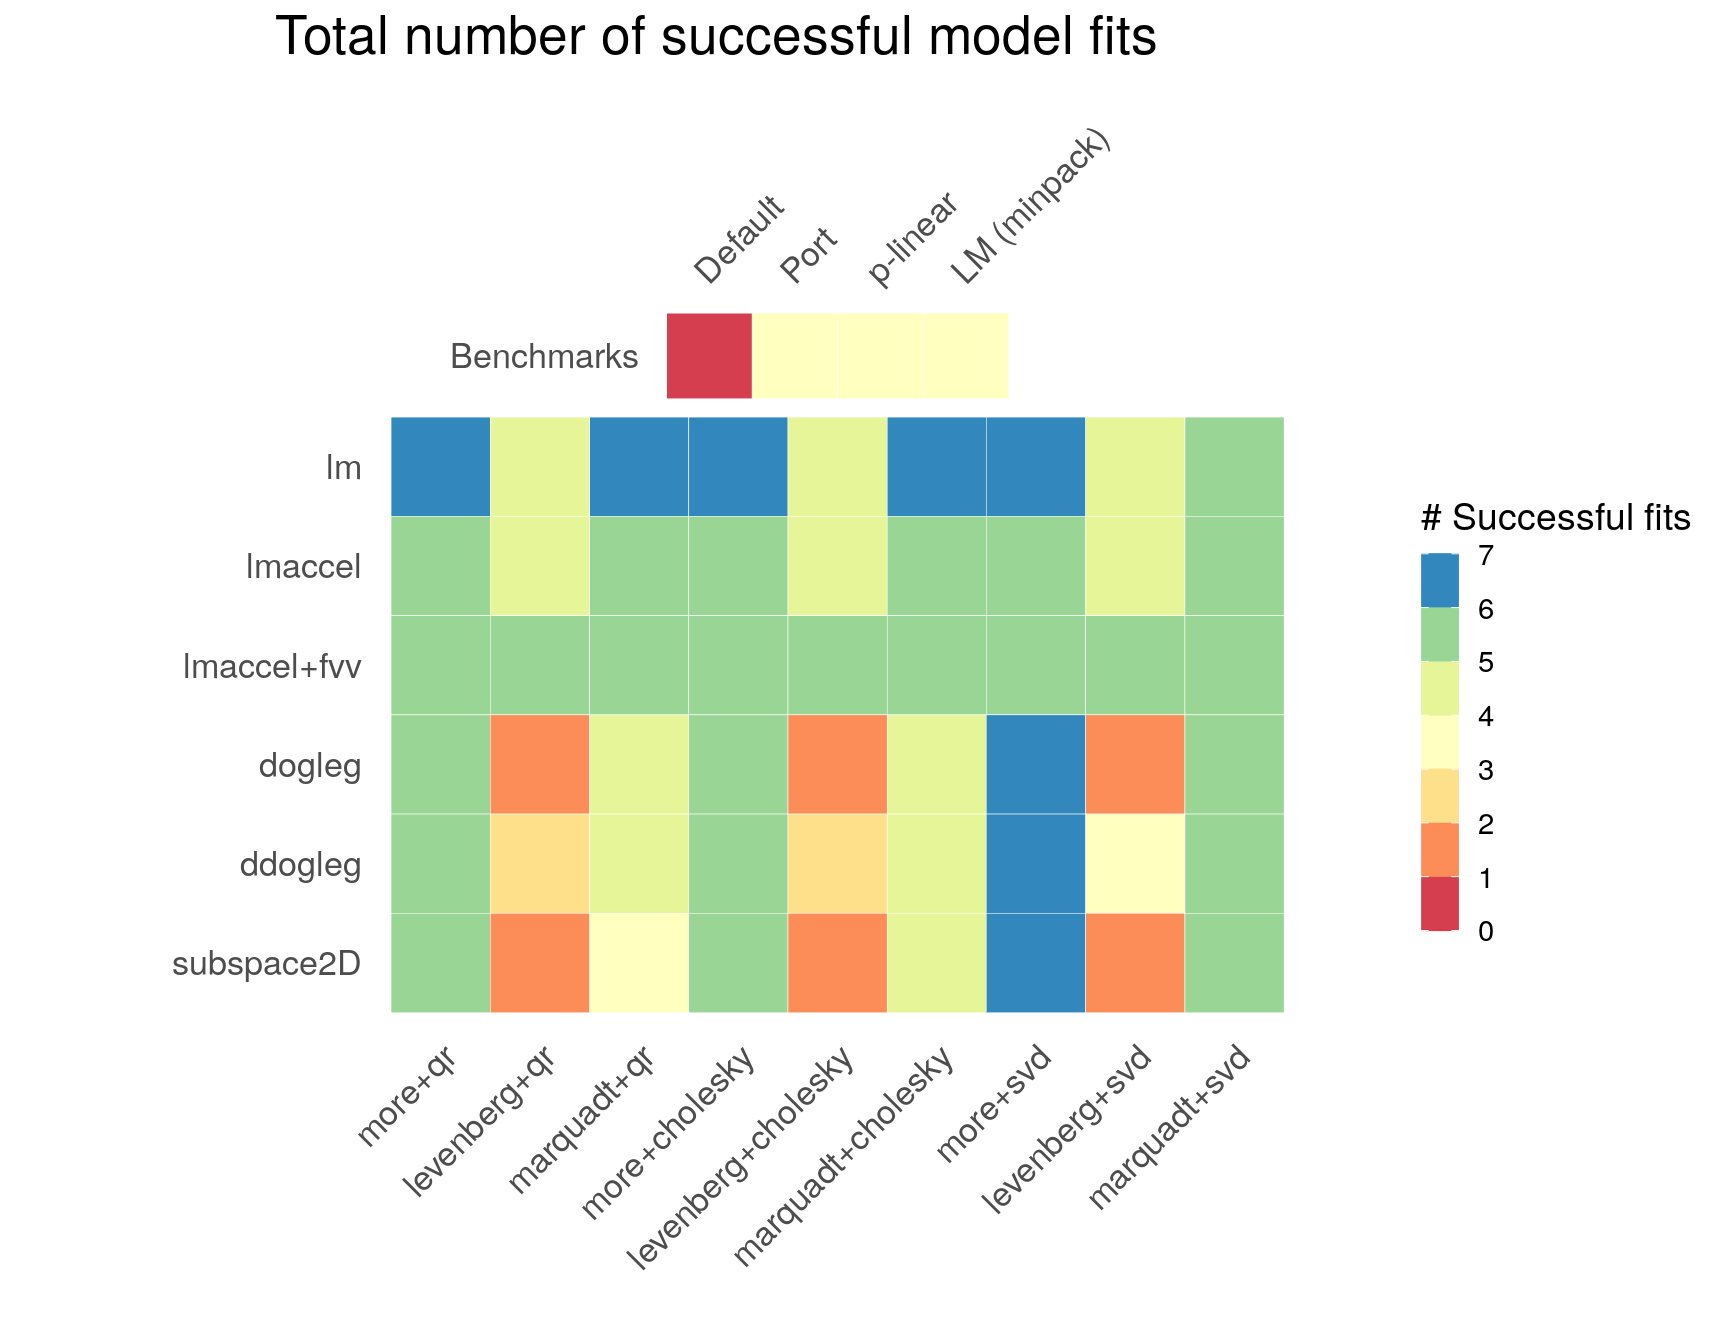
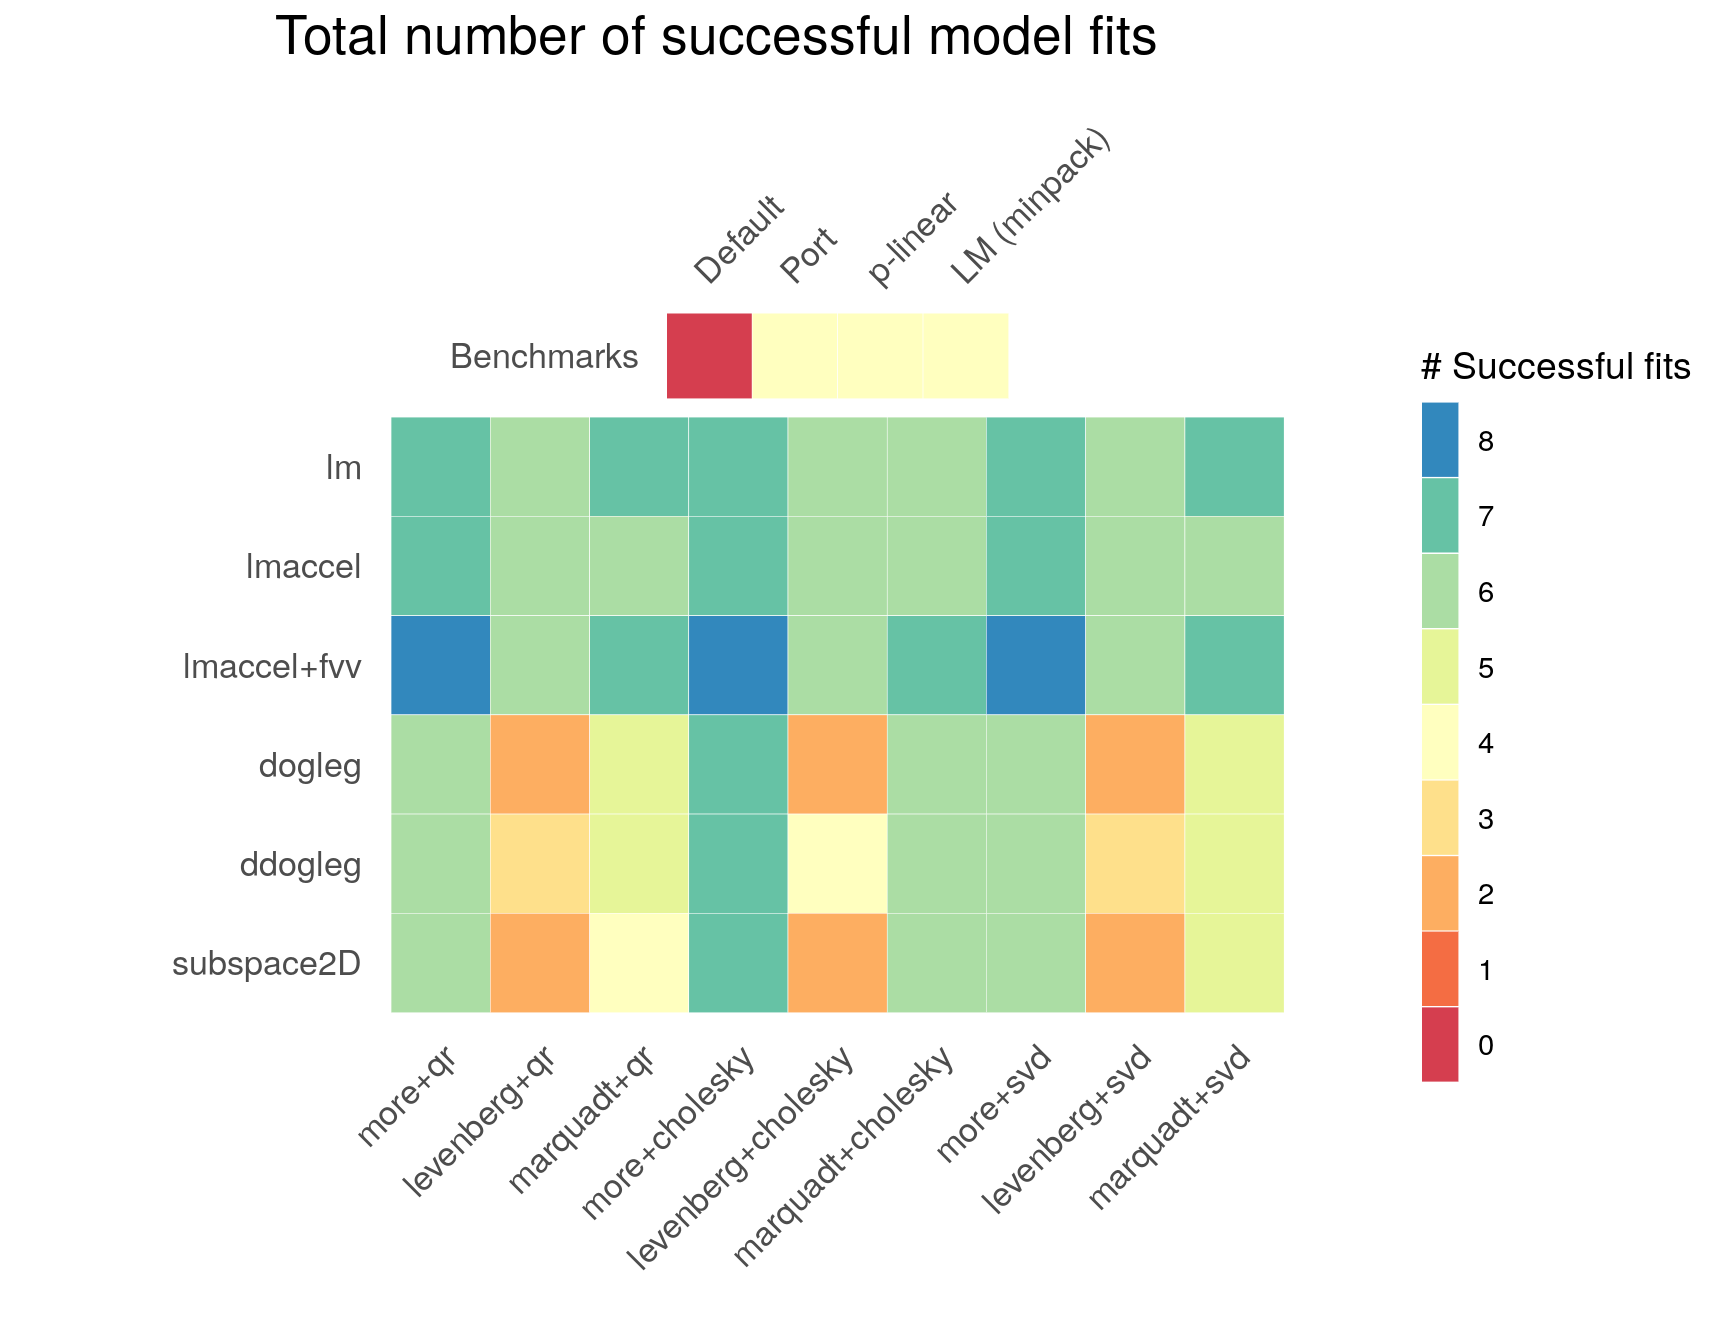
Edit post

diff --git a/content/post/2021-10-12-gsl-nonlinear-least-squares-fitting-in-r/index.html b/content/post/2021-10-12-gsl-nonlinear-least-squares-fitting-in-r/index.html
@@ -304,11 +304,11 @@ Observed
 <li><code>"ddogleg"</code>, <a href="https://www.gnu.org/software/gsl/doc/html/nls.html#double-dogleg">Double dogleg algorithm</a></li>
 <li><code>"subspace2D"</code>, <a href="https://www.gnu.org/software/gsl/doc/html/nls.html#two-dimensional-subspace">2D subspace dogleg generalization</a>.</li>
 </ul>
-<p>By default, if the <code>jac</code> argument in the <code>gsl_nls()</code> function is left unspecified, the Jacobian matrix is approximated by (forward) finite differences. Analogously, when geodesic acceleration is used and the <code>fvv</code> argument is left unspecified, the second directional derivatives are approximated by (forward) finite differences. In testing the convergence of the GSL routines, the <code>jac</code> argument is always left unspecified. The Levenberg-Marquadt algorithm with geodesic acceleration is evaluated both with the <code>fvv</code> argument unspecified (denoted by <code>lmaccel</code>) <em>and</em> with <code>fvv = TRUE</code> in which case the second directional derivatives are calculated using symbolic differentiation (denoted by <code>lmaccel+fvv</code>).</p>
+<p>By default, if the <code>jac</code> argument in the <code>gsl_nls()</code> function is left unspecified, the Jacobian matrix is approximated by (forward) finite differences. Analogously, when geodesic acceleration is used and the <code>fvv</code> argument is left unspecified, the second directional derivatives are approximated by (forward) finite differences. In testing the convergence of the GSL routines, the <code>jac</code> argument is always left unspecified. The Levenberg-Marquadt algorithm with geodesic acceleration is evaluated both with the <code>fvv</code> argument unspecified (denoted by <code>lmaccel</code>) <em>and</em> with <code>fvv = TRUE</code> in which case the second directional derivatives are calculated using algorithmic differentiation (denoted by <code>lmaccel+fvv</code>). To further improve the stability of the <code>lmaccel+fvv</code> method, the acceleration/velocity rejection ratio <code>avmax</code> (see <code>?gsl_nls_control</code>) is decreased from its default value 0.75 to 0.5, which was found to perform well for the evaluated test problems. For the standard <code>lmaccel</code> method (without algorithmic derivation of <code>fvv</code>), the <code>avmax</code> control parameter is kept at its default value 0.75.</p>
 </div>
 <div id="scaling-method" class="section level3">
 <h3>Scaling method</h3>
-<p>For the control parameters set with <code>gsl_nls_control()</code>, only the <code>scale</code> and <code>solver</code> parameters are varied, see also <code>?gsl_nls_control</code>. The maximum number of iterations <code>maxiter</code> is increased from the default <code>maxiter = 50</code> to <code>maxiter = 1e4</code> in order to remove the maximum number of iterations as a constraining factor, and the default values are used for all other control parameters available in <code>gsl_nls_control()</code>.</p>
+<p>For the control parameters set with <code>gsl_nls_control()</code>, only the <code>scale</code> and <code>solver</code> parameters are varied, see also <code>?gsl_nls_control</code>. The maximum number of iterations <code>maxiter</code> is increased from the default <code>maxiter = 50</code> to <code>maxiter = 1e4</code> in order to remove the maximum number of iterations as a constraining factor, and the default values are used for the remaining control parameters available in <code>gsl_nls_control()</code>.</p>
 <p>The <code>scale</code> control parameter can take the following values<a href="#fn2" class="footnote-ref" id="fnref2"><sup>2</sup></a>:</p>
 <ul>
 <li><code>"more"</code>, Moré rescaling. This method makes the problem scale-invariant and has been proven effective on a large class of problems.</li>
@@ -552,8 +552,8 @@ nls(
 </ul>
 <p><img src="{{< blogdown/postref >}}index_files/figure-html/unnamed-chunk-13-1.png" width="100%" /></p>
 <p>Based on the displayed results, an initial observation is that the default Gauss-Newton algorithm in <code>nls()</code> fails to produce <em>any</em> successful model fit and returns an error for each selected test problem. The Port and (<code>minpack.lm</code>) Levenberg-Marquadt algorithms show roughly similar convergence results, but only successfully converge for half of the evaluated test problems. The p-linear algorithm is somewhat special as it is only applicable for regression models that can be factored into a partially linear model. However, if applicable, the p-linear algorithm can be a powerful alternative as demonstrated by the <code>BoxBOD</code> problem, where most other (general) NLS routines fail to converge. More precisely, the <code>BoxBOD</code> regression model contains only two parameters, and by factoring out the linear parameter, the nonlinear model fit that needs to be optimized by the p-linear algorithm depends only on a single unknown parameter.</p>
-<p>Regarding the GSL routines, for each test problem there exists <em>at least</em> one algorithm configuration that is able to produce a successful model fit. Across test problems and control parameter configurations, the GSL Levenberg-Marquadt algorithms with and without geodesic acceleration (<code>lm</code>, <code>lmaccel</code>, <code>lmaccel+fvv</code>) appear to be the most stable, as also seen in the figure below, which displays the total number of successful model fits across test problems. In comparison to the LM algorithm without geodesic acceleration (<code>lm</code>), the LM algorithm with geodesic acceleration (<code>lmaccel</code>, <code>lmaccel+fvv</code>) fails to converge in the <code>Rat43</code> problem, but on the other hand the <code>lmaccel+fvv</code> algorithm is the <em>only</em> GSL routine that is able to produce a successful fit in the <code>BoxBOD</code> problem.</p>
-<p>Across control parameter configurations, in terms of the scaling method, <code>more</code> rescaling (the default) exhibits the most stable performance, followed by <code>marqaudt</code> rescaling and <code>levenberg</code> rescaling. In the figure below, this is seen most prominently for the different variations of the Dogleg algorithm (<code>dogleg</code>, <code>ddogleg</code>, <code>subspace2D</code>) and somewhat less for the Levenberg-Marquadt algorithms. In terms of the chosen solver method, the <code>svd</code> solver produces slightly more robust results than the <code>qr</code> and <code>cholesky</code> solver methods, which is in line with the solver method section in the GSL documentation.</p>
+<p>Regarding the GSL routines, for each test problem there exist multiple least-squares algorithms producing a successful model fit. Across test problems and control parameter configurations, the GSL Levenberg-Marquadt algorithms with and without geodesic acceleration (<code>lm</code>, <code>lmaccel</code>, <code>lmaccel+fvv</code>) appear to be the most stable, as also seen in the figure below, which displays the total number of successful model fits across test problems. In comparison to the LM algorithm without geodesic acceleration (<code>lm</code>), the LM algorithm with geodesic acceleration (<code>lmaccel</code>) does not converge for all solver and scaling methods in the <code>Rat43</code> problem. On the other hand, the LM algorithm with geodesic acceleration is more stable in the <code>BoxBOD</code> problem, where the standard LM algorithm suffers from <em>parameter evaporation</em>. The <code>lmaccel+fvv</code> algorithm shows similar performance to the <code>lmaccel</code> algorithm, and successfully converges across all solver and scaling methods in the <code>Rat43</code> problem due to the more conservative <code>avmax</code> tuning parameter. In particular, the <code>lmaccel+fvv</code> algorithm with <code>more</code> rescaling is the only routine that converges successfully for <em>all</em> test problems.</p>
+<p>Across control parameter configurations, in terms of the scaling method, <code>more</code> rescaling (the default) exhibits the most stable performance, followed by <code>marqaudt</code> rescaling and <code>levenberg</code> rescaling. In the figure below, this is seen most prominently for the different variations of the Dogleg algorithm (<code>dogleg</code>, <code>ddogleg</code>, <code>subspace2D</code>) and somewhat less for the Levenberg-Marquadt algorithms. The chosen solver method seems to be less impactful for the evaluated test problems, with the <code>cholesky</code> solver method producing slightly more robust results than the <code>qr</code> and <code>svd</code> solver methods respectively.</p>
 <p><img src="{{< blogdown/postref >}}index_files/figure-html/unnamed-chunk-14-1.png" width="100%" /></p>
 </div>
 <div id="iterations-to-convergence" class="section level2">
@@ -565,6 +565,48 @@ nls(
 <div id="conclusion" class="section level1">
 <h1>Conclusion</h1>
 <p>Based on a small collection of NIST StRD test problems, this post benchmarks the convergence properties of a number of GSL nonlinear least squares routines as well as several standard NLS algorithms that are in common use. For the tested nonlinear regression problems, the GSL algorithms show at least comparable –<em>and often better</em>– optimization performance than the included benchmark algorithms, using mostly standard choices and default values for the GSL trust region method control parameters. As such, the GSL trust region methods provide a useful supplement to the existing suite of nonlinear least squares fitting algorithms available in R, in particular when adequate starting values are difficult to come by and more stable optimization routines (than provided by R’s standard methods) are required.</p>
+</div>
+<div id="session-info" class="section level1">
+<h1>Session Info</h1>
+<pre class="r"><code>sessionInfo()
+#&gt; R version 4.1.1 (2021-08-10)
+#&gt; Platform: x86_64-pc-linux-gnu (64-bit)
+#&gt; Running under: Ubuntu 18.04.6 LTS
+#&gt; 
+#&gt; Matrix products: default
+#&gt; BLAS:   /usr/lib/x86_64-linux-gnu/blas/libblas.so.3.7.1
+#&gt; LAPACK: /usr/lib/x86_64-linux-gnu/lapack/liblapack.so.3.7.1
+#&gt; 
+#&gt; locale:
+#&gt;  [1] LC_CTYPE=en_US.UTF-8       LC_NUMERIC=C              
+#&gt;  [3] LC_TIME=en_US.UTF-8        LC_COLLATE=en_US.UTF-8    
+#&gt;  [5] LC_MONETARY=en_US.UTF-8    LC_MESSAGES=en_US.UTF-8   
+#&gt;  [7] LC_PAPER=en_US.UTF-8       LC_NAME=C                 
+#&gt;  [9] LC_ADDRESS=C               LC_TELEPHONE=C            
+#&gt; [11] LC_MEASUREMENT=en_US.UTF-8 LC_IDENTIFICATION=C       
+#&gt; 
+#&gt; attached base packages:
+#&gt; [1] stats     graphics  grDevices utils     datasets  methods   base     
+#&gt; 
+#&gt; other attached packages:
+#&gt; [1] gslnls_1.0.3      NISTnls_0.9-13    patchwork_1.1.1   ggplot2_3.3.5    
+#&gt; [5] data.table_1.14.2 kableExtra_1.3.4  knitr_1.36       
+#&gt; 
+#&gt; loaded via a namespace (and not attached):
+#&gt;  [1] minpack.lm_1.2-1   tidyselect_1.1.1   xfun_0.26          bslib_0.3.1       
+#&gt;  [5] purrr_0.3.4        colorspace_2.0-2   vctrs_0.3.8        generics_0.1.0    
+#&gt;  [9] htmltools_0.5.2    viridisLite_0.4.0  yaml_2.2.1         utf8_1.2.2        
+#&gt; [13] rlang_0.4.11       jquerylib_0.1.4    pillar_1.6.3       glue_1.4.2        
+#&gt; [17] withr_2.4.2        RColorBrewer_1.1-2 lifecycle_1.0.1    stringr_1.4.0     
+#&gt; [21] munsell_0.5.0      blogdown_1.5       gtable_0.3.0       rvest_1.0.1       
+#&gt; [25] evaluate_0.14      labeling_0.4.2     fastmap_1.1.0      fansi_0.5.0       
+#&gt; [29] highr_0.9          scales_1.1.1       webshot_0.5.2      jsonlite_1.7.2    
+#&gt; [33] farver_2.1.0       systemfonts_1.0.2  gridExtra_2.3      digest_0.6.28     
+#&gt; [37] stringi_1.7.4      bookdown_0.24      dplyr_1.0.7        grid_4.1.1        
+#&gt; [41] tools_4.1.1        magrittr_2.0.1     sass_0.4.0         tibble_3.1.5      
+#&gt; [45] crayon_1.4.1       pkgconfig_2.0.3    MASS_7.3-54        ellipsis_0.3.2    
+#&gt; [49] xml2_1.3.2         rmarkdown_2.11     svglite_2.0.0      httr_1.4.2        
+#&gt; [53] rstudioapi_0.13    R6_2.5.1           compiler_4.1.1</code></pre>
 </div>
 <div id="references" class="section level1 unnumbered">
 <h1>References</h1>
